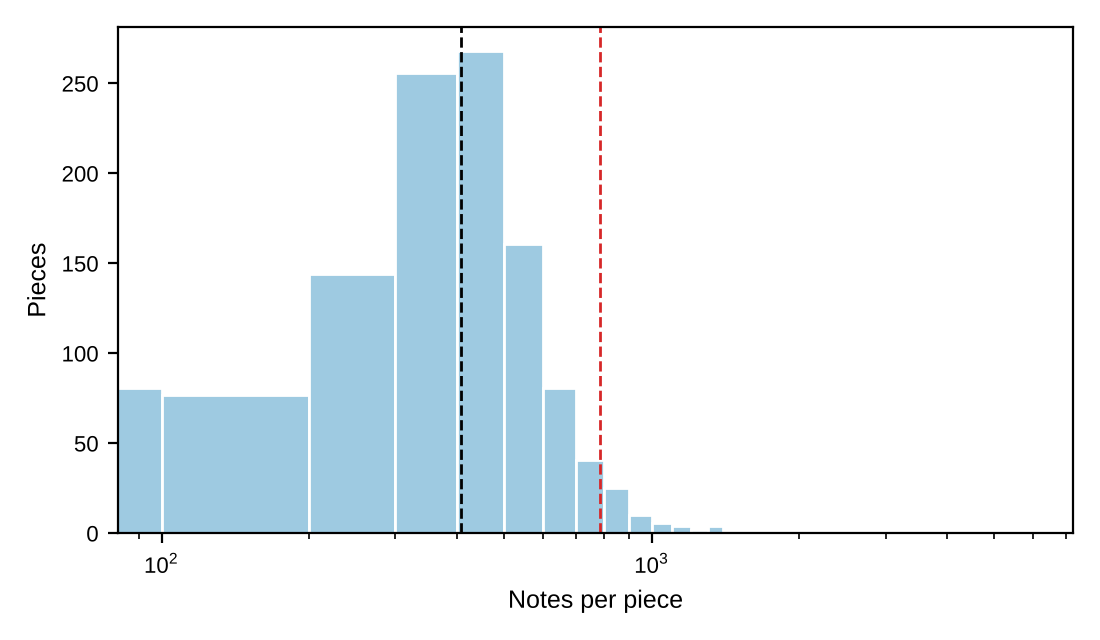
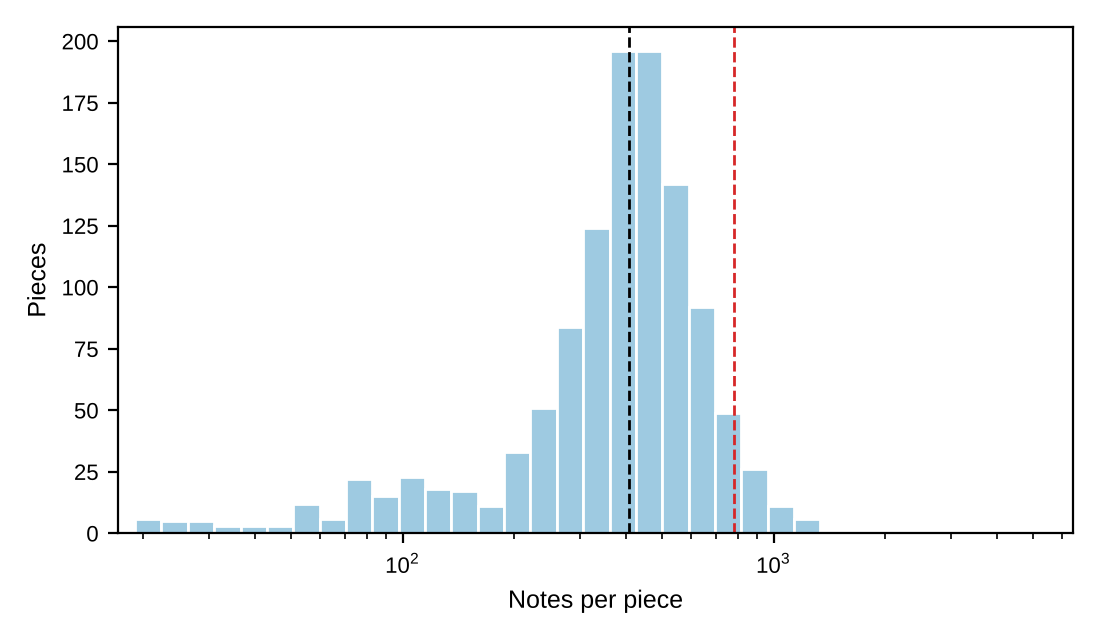
Length histogram: logarithmically spaced bins over the full range (pieces shorter than 80 notes were clipped)
Claude-Session: https://claude.ai/code/session_01TTyWiMUwnEMHDkeaZJLKxw

diff --git a/extra_figures.py b/extra_figures.py
@@ -133,11 +133,14 @@ def length_figure(fig_dir):
     pieces, labels, _ = load_pieces()
     L = np.array([len(p["notes"]) for p in pieces])
     fig, ax = plt.subplots(figsize=(5.5, 3.2))
-    ax.hist(L, bins=np.arange(0, L.max() + 100, 100), color="#9ecae1", edgecolor="white")
+    # logarithmically spaced bins: the axis is logarithmic, and linear bins starting at 0 would
+    # clip the pieces shorter than the first tick
+    ax.hist(L, bins=np.logspace(np.log10(L.min()), np.log10(L.max()), 36), color="#9ecae1", edgecolor="white")
     for q, c in ((np.median(L), "k"), (np.percentile(L, 95), "#d62728")):
         ax.axvline(q, color=c, ls="--", lw=1)
     ax.set_xlabel("Notes per piece"); ax.set_ylabel("Pieces")
     ax.set_xscale("log")
+    ax.set_xlim(L.min() * 0.9, L.max() * 1.1)
     fig.tight_layout()
     fig.savefig(os.path.join(fig_dir, "length_hist.pdf"))
     fig.savefig(os.path.join(fig_dir, "length_hist.png"), dpi=200)
